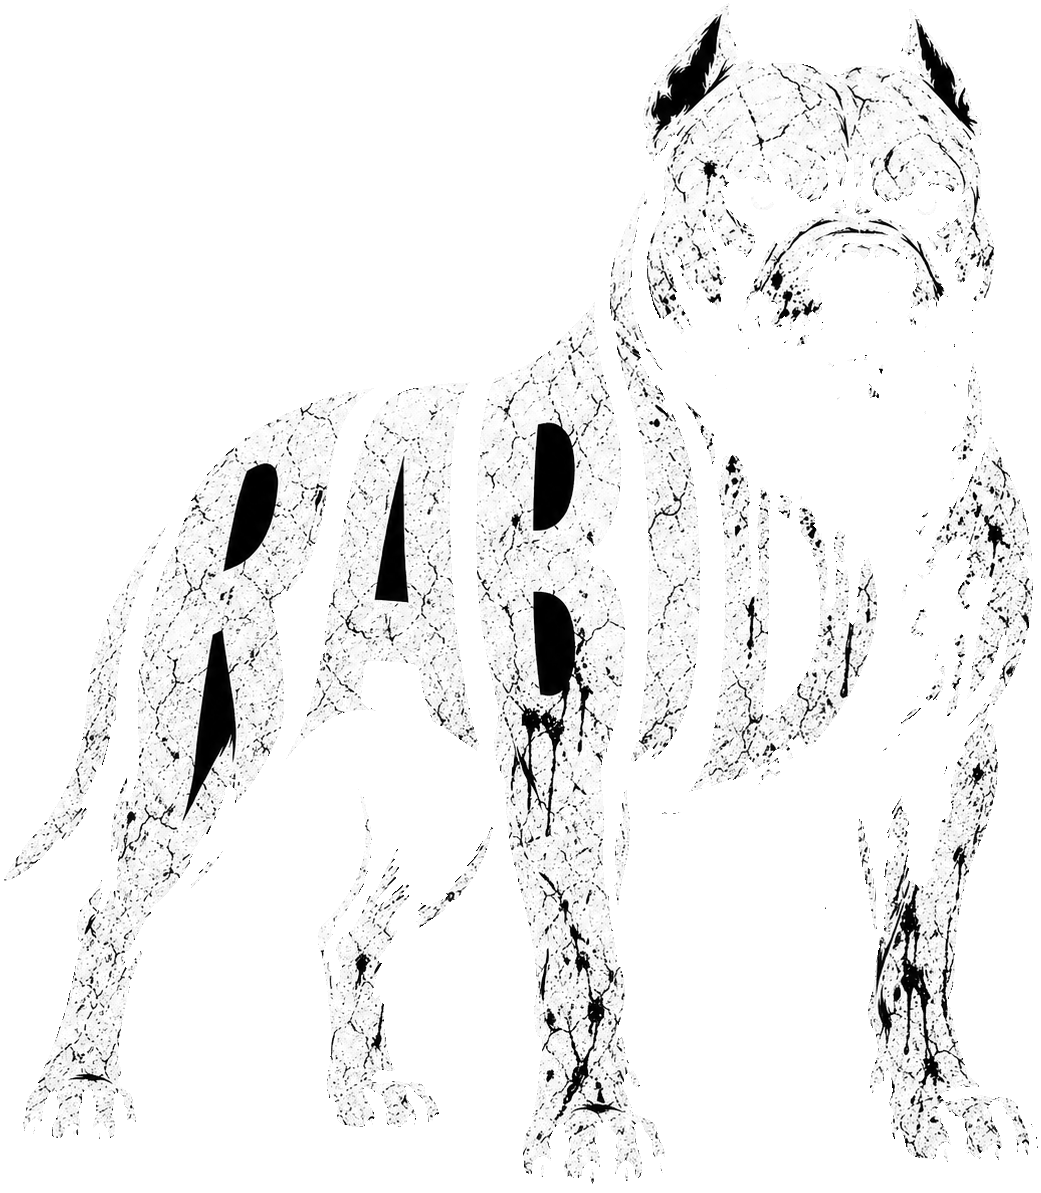
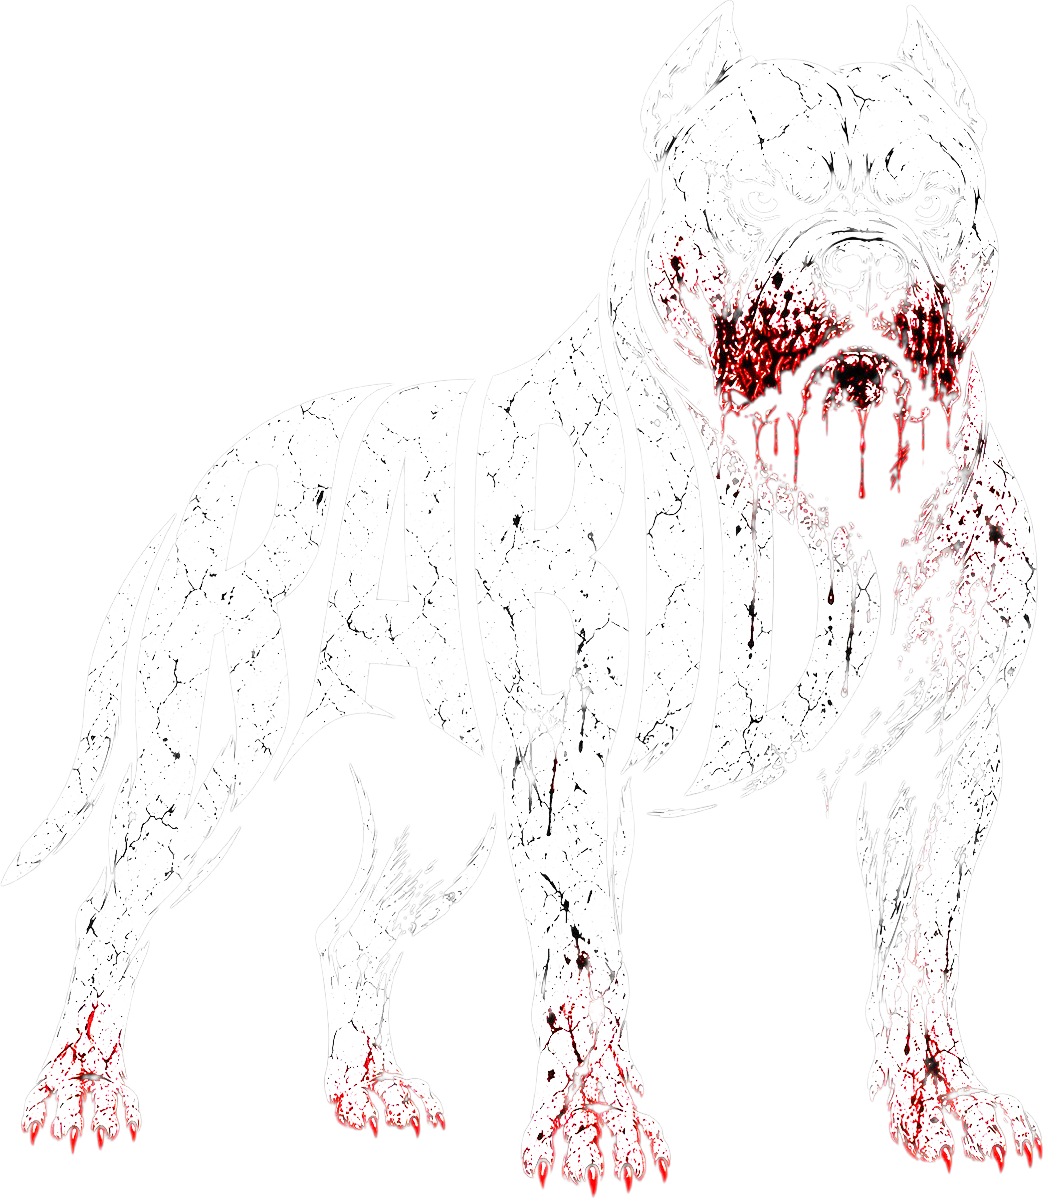
RABID bleeds
Replaces the top rung of the ladder with the bloodied artwork. It is the
only rank with colour in it, which is the point: four dogs in white and
then one that is not, so the top of the ladder needs no caption.

It ships RGBA where the other four are grey plus alpha. Those are
monochrome to within rounding noise and halve in size as LA, but running
this one through the same path would have thrown the blood away silently
- the file would still load, still draw, and just be white.

The supplied artwork already carried its own alpha, so it needed trimming
to its ink rather than keying. 27,474 coloured pixels survive the trim,
checked rather than assumed, and the ratio moves enough to be worth
updating in RankDog: the lettering inside the body distorts the moment
the proportions slip.

RankDog tints nothing, so the colour reaches the screen untouched.

Claude-Session: https://claude.ai/code/session_01FQXYACtHqGQwwtKji7kPMY

diff --git a/src/components/RankDog.tsx b/src/components/RankDog.tsx
@@ -20,7 +20,9 @@ const ARTWORK: Record<RabidLevel, { source: number; width: number; height: numbe
   mutt: { source: require('../../assets/brand/ranks/mutt.png'), width: 866, height: 946 },
   hound: { source: require('../../assets/brand/ranks/hound.png'), width: 860, height: 1115 },
   feral: { source: require('../../assets/brand/ranks/feral.png'), width: 1100, height: 1503 },
-  rabid: { source: require('../../assets/brand/ranks/rabid.png'), width: 1041, height: 1193 },
+  // The only rank with colour in it. RABID bleeds; the other four are grey
+  // plus alpha, so this one ships RGBA or the blood is silently thrown away.
+  rabid: { source: require('../../assets/brand/ranks/rabid.png'), width: 1043, height: 1198 },
 };
 
 export type RankDogProps = {
